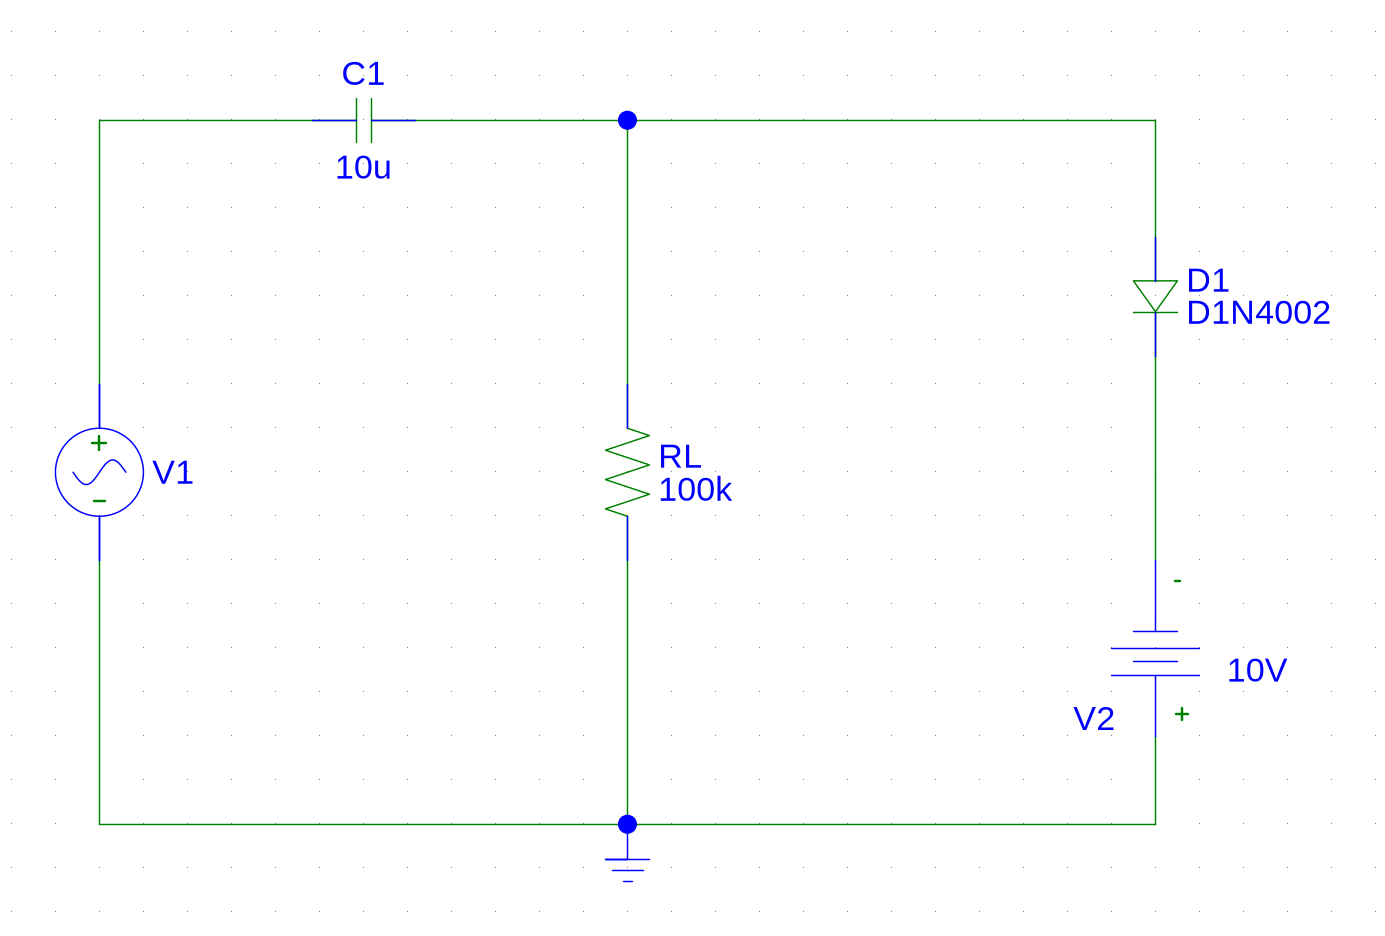
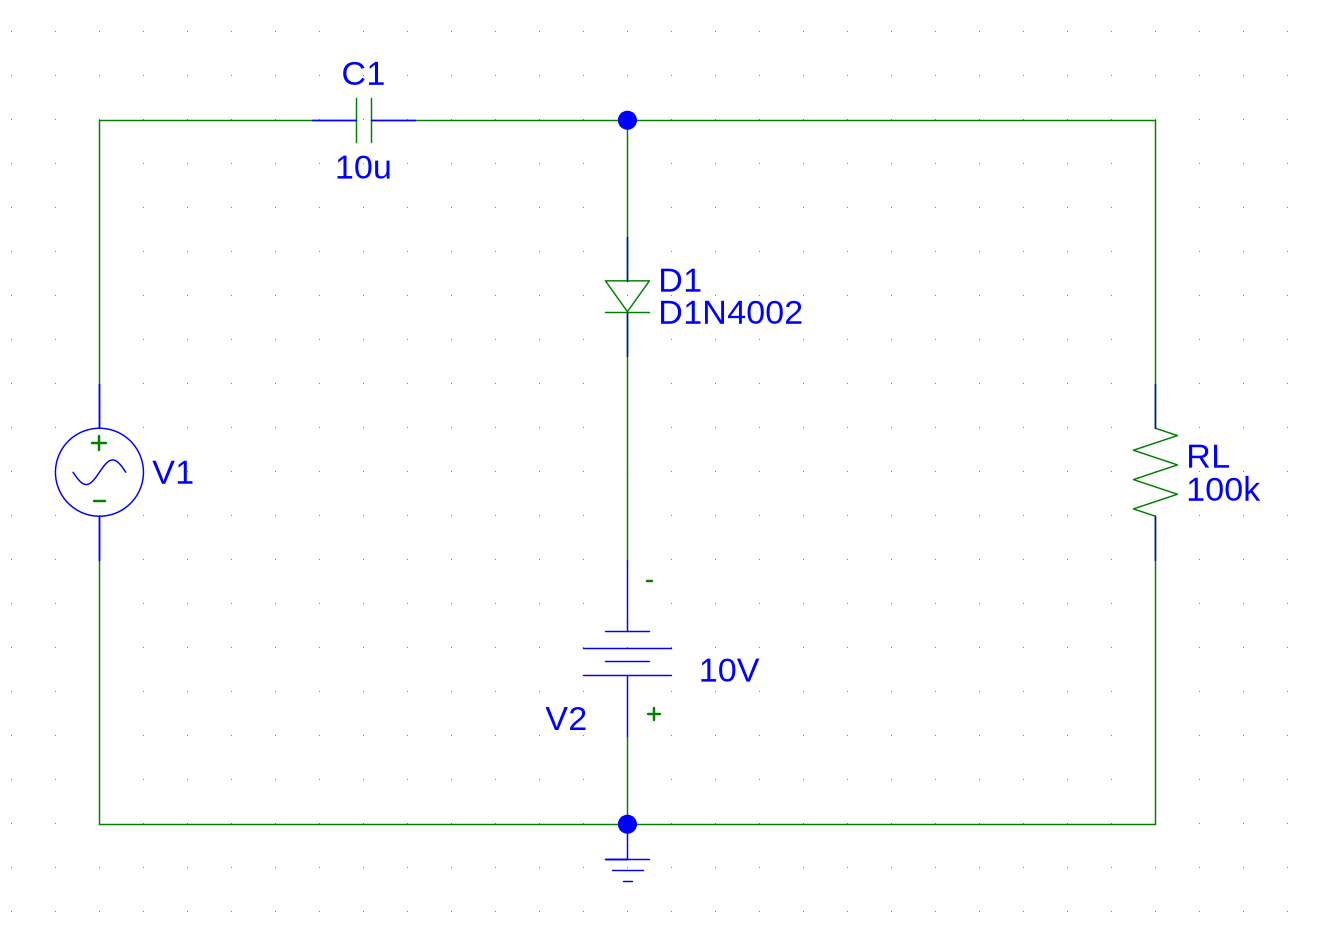
Fix netlist2schematic script 2

diff --git a/netlist2schematic.py b/netlist2schematic.py
@@ -641,8 +641,10 @@ class Builder:
                 self.degree[a] += 1
                 self.degree[b] += 1
 
+        # Bias branches go to the front so they sit inside, next to the series element;
+        # the plain load (e.g. RL) is then the outermost leg on the right-hand edge.
         for top, chain in folds:
-            hang[top].append(chain)
+            hang[top].insert(0, chain)
             self.degree[top] += 1
 
         # x positions
